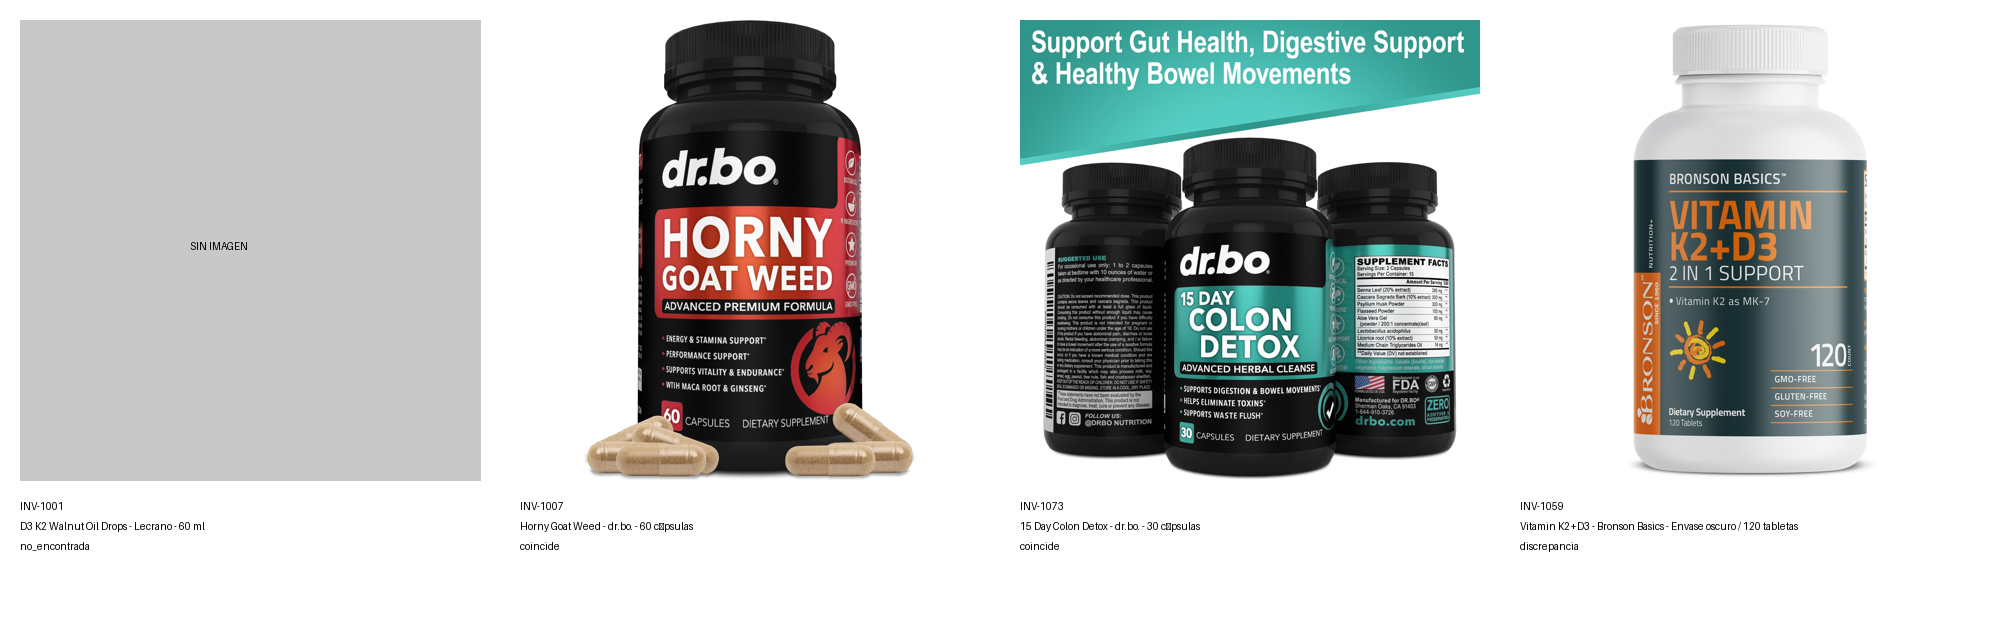
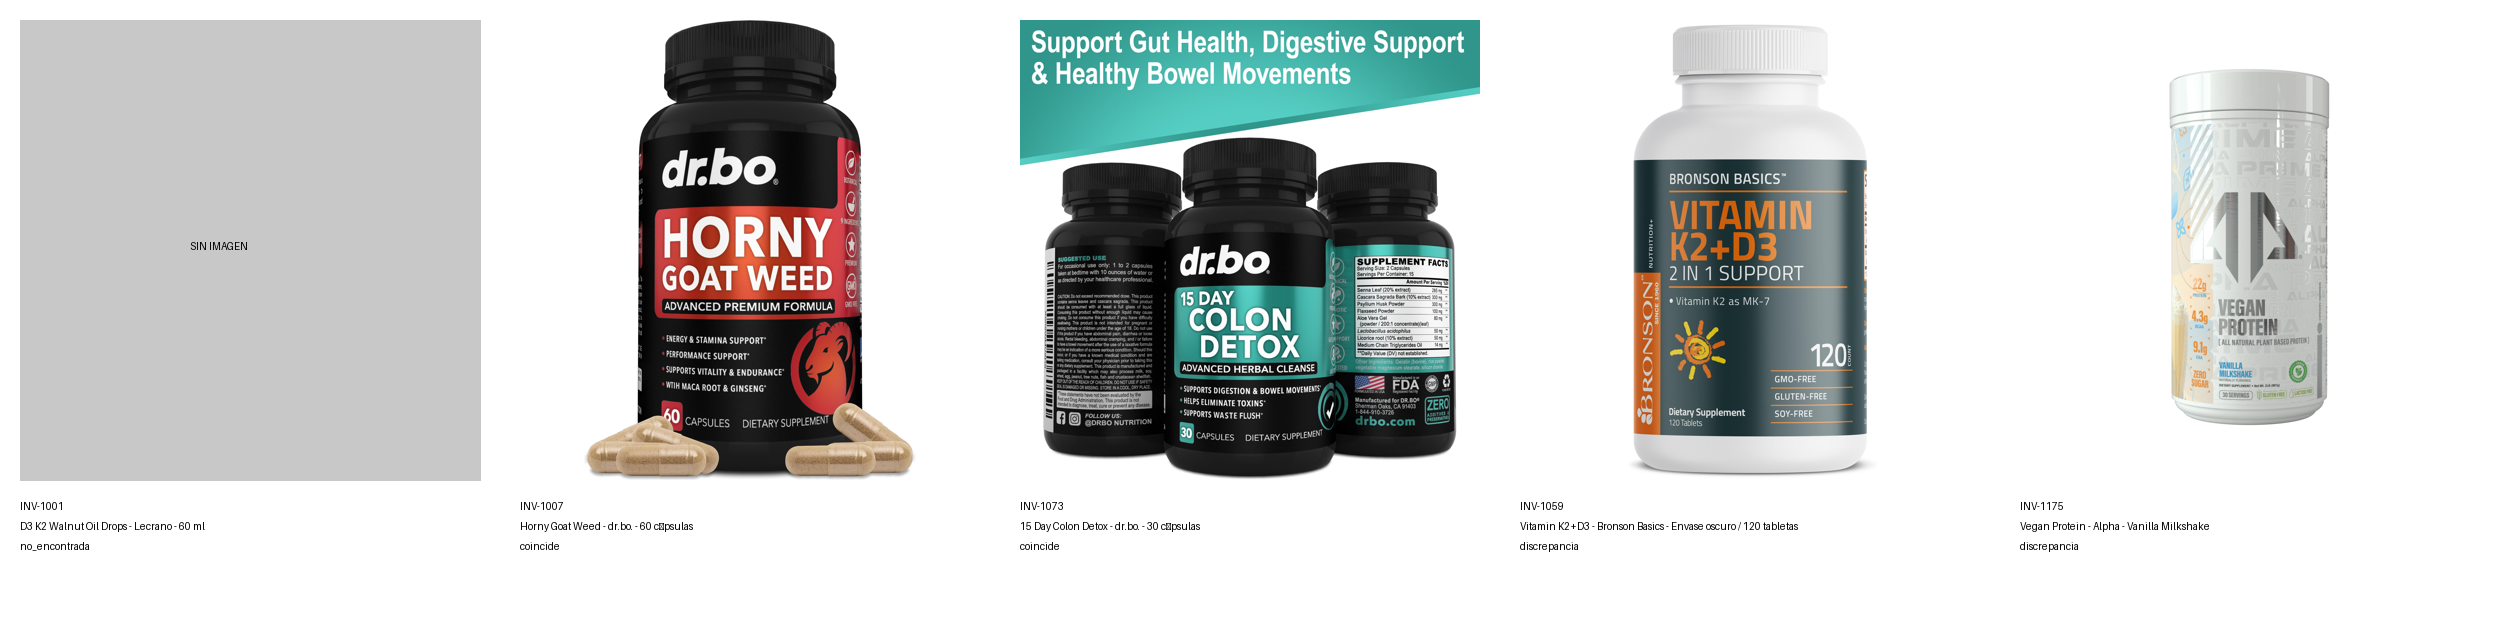
Fotos r2-01: añade INV-1175 (Alpha Prime, discrepancia por marca)
Claude-Session: https://claude.ai/code/session_01CjMpH81EnMnwyM1Un5tRq2

diff --git a/docs/fotos/r2-01-18nov/README.md b/docs/fotos/r2-01-18nov/README.md
@@ -7,3 +7,4 @@
 
 Detalle, URLs y sha256: `candidatas.csv`. Vista: `contacto.png`.
 | INV-1059 Bronson K2+D3 120 tab (extra) | discrepancia | bronsonvitamins.com: frasco blanco con etiqueta oscura; no existe frasco oscuro |
+| INV-1175 Vegan Protein Alpha Vanilla Milkshake (extra) | discrepancia | alphaprimesupps.com: producto/sabor coinciden; marca Alpha Prime inferida, confirmar |
